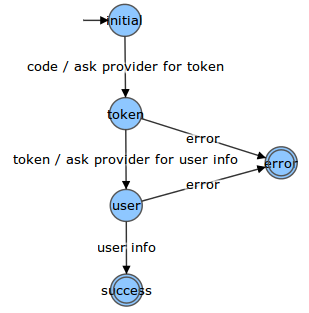
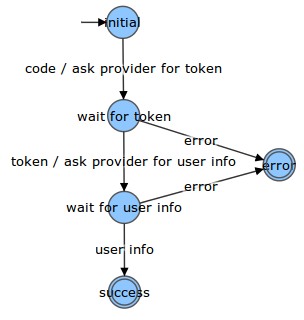
Added description

diff --git a/examples/oauth-client/index.js b/examples/oauth-client/index.js
@@ -4,12 +4,18 @@
 var express = require('express');
 var Provider = require('./oauth/provider');
 
-var port = 5003;
+var port = 3000;
 var app = express();
 
 
 // Configure the provider with the data you and facebook agreed about:
 // https://developers.facebook.com/docs/apps/register
+// Create configuration file containig your configuration:
+// {
+//     "client": "your app id provided by facebook",
+//     "secret": "your app secret provided by facebok",
+//     "callback": "http://url_to_your_app:3000/auth/facebook"
+// }
 var facebook = new Provider('facebook', require('./oauth/.facebook.json'));
 
 

diff --git a/examples/oauth-client/README.md b/examples/oauth-client/README.md
@@ -11,6 +11,10 @@ This folder contains a fully functional [OAuth](https://en.wikipedia.org/wiki/OA
 3. Edit `index.js` file putting your app's id, secret code and url.
 4. Launch it: `node .`, open browser and navigate to your app.
 
-## How it is made
+## Internals
+
+It is assumed that you know basics of OAuth authorization and familiar with applications built on [Express](http://expressjs.com/).
+
+At the first step of authorization flow you redirect the user to a login page of a authorization provider. If the user provides the credential, the provider will redirect the user's browser back to your authorization client with authorization code. This is actually the first event we have to maintain the state of the authorization flow from. With the code we ask the provider for an access token. Next, with the token we ask the provider about the user. The  graph of this state machine:
 
 ![State machine for facebook](https://github.com/DmitryMyadzelets/u-machine/raw/master/examples/oauth-client/mics/facebook-state-machine.png)
